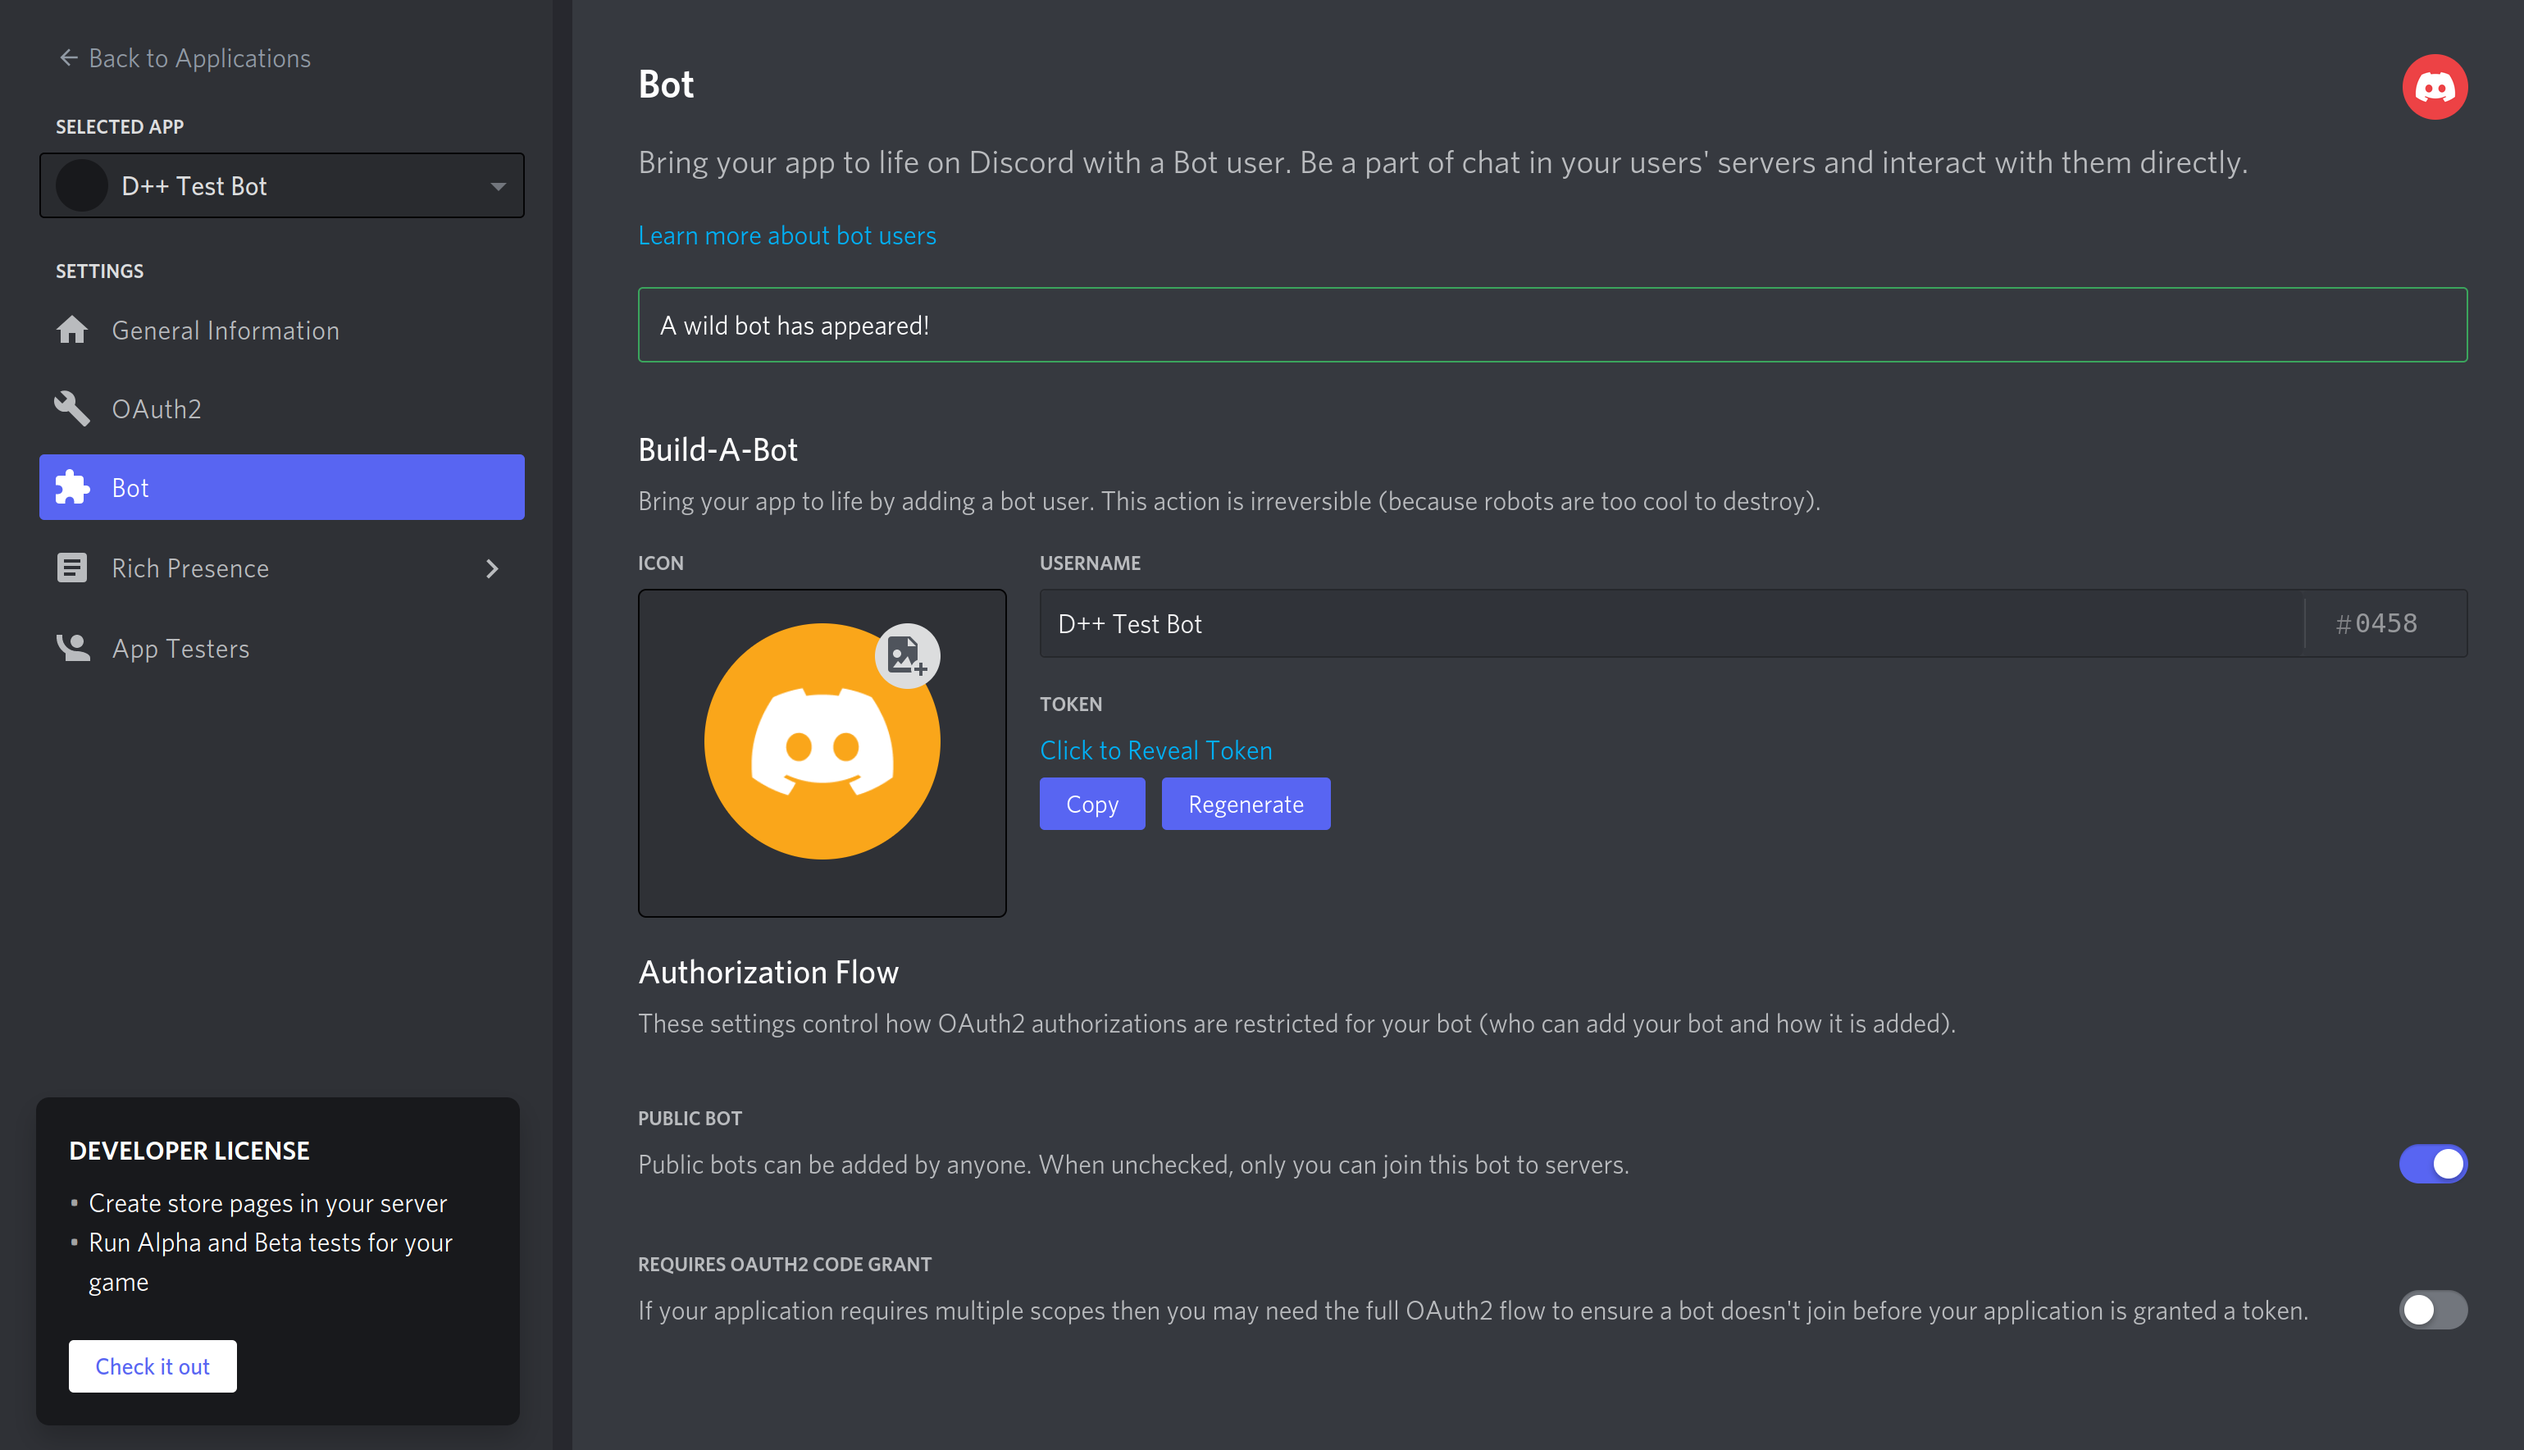
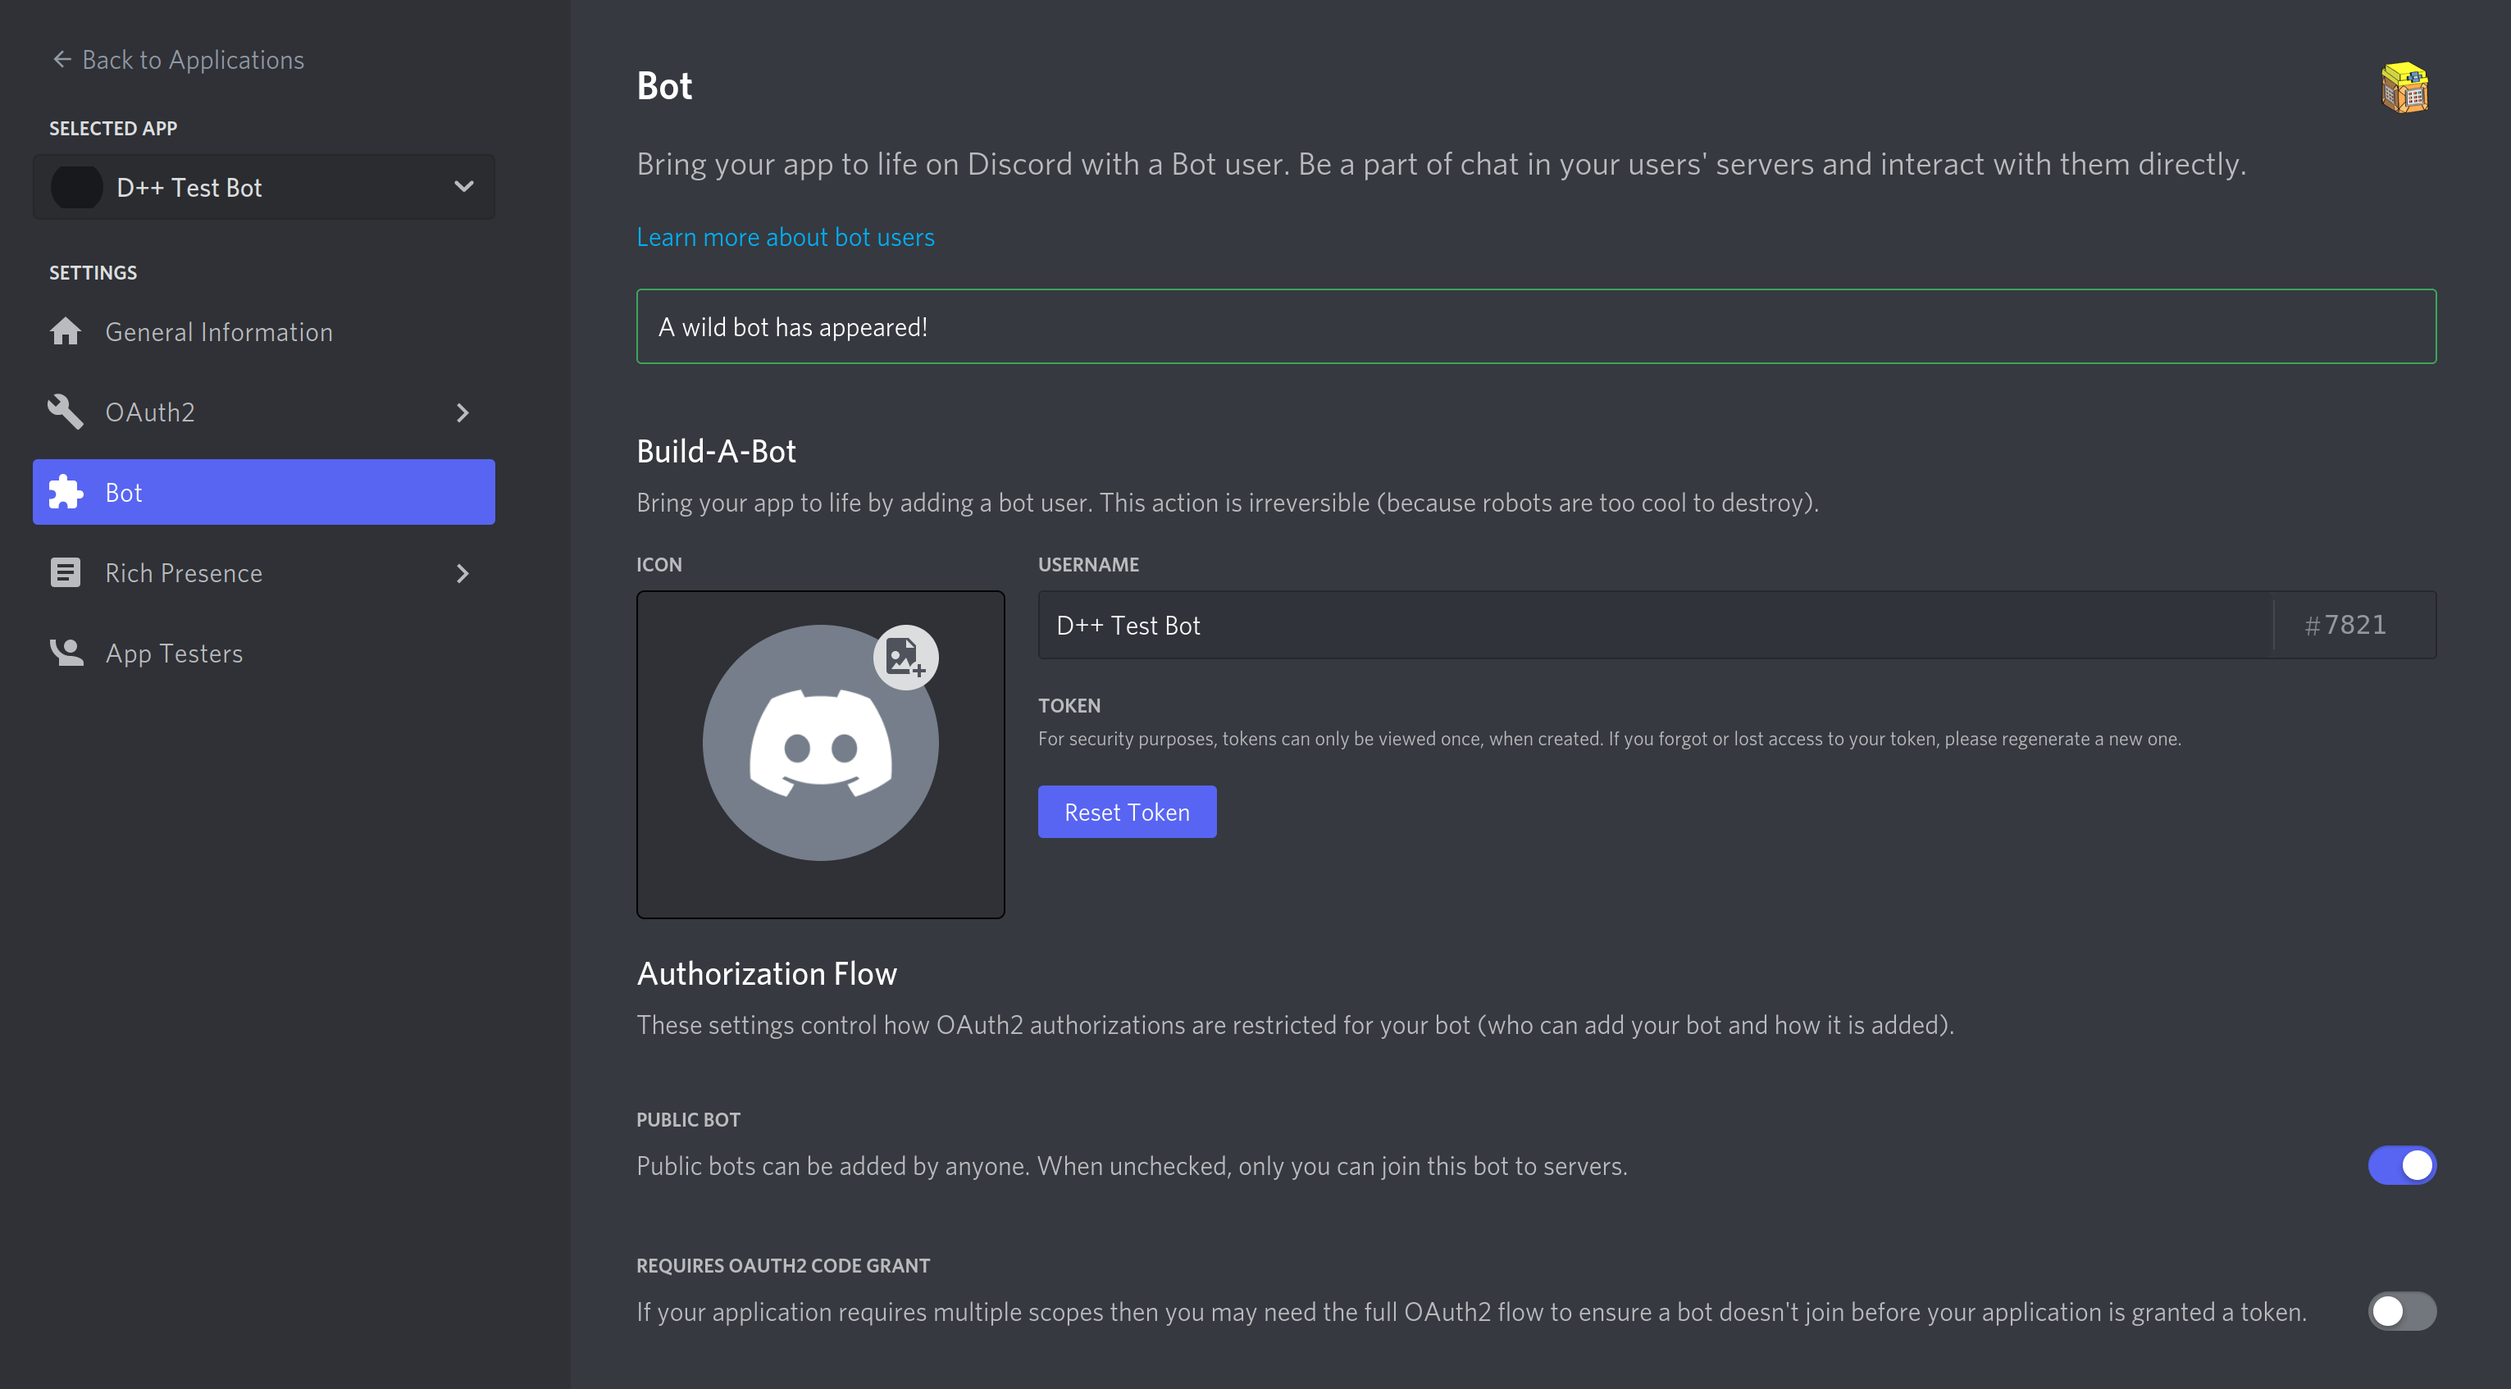
added guild_member_timeout and updated docs

diff --git a/include/dpp/cluster.h b/include/dpp/cluster.h
@@ -2231,7 +2231,7 @@ public:
 	/**
 	 * @brief Edit the properties of an existing guild member
 	 * 
-	 * Modify attributes of a guild member. Returns the guild_member. Fires a `Guild Member Update Gateway` event.
+	 * Modify attributes of a guild member. Returns the guild_member. Fires a `Guild Member Update` Gateway event.
 	 * If the `channel_id` is set to 0, this will force the target user to be disconnected from voice.
 	 * To remove a timeout, set the `communication_disabled_until` to a non-zero time in the past, e.g. 1.
 	 * When moving members to channels, the API user must have permissions to both connect to the channel and have the `MOVE_MEMBERS` permission.
@@ -2245,6 +2245,10 @@ public:
 
 	/**
 	 * @brief Moves the guild member to a other voice channel, if member is connected to one
+	 *
+	 * Fires a `Guild Member Update` Gateway event.
+	 * @note When moving members to channels, the API user __must__ have permissions to both connect to the channel and have the `MOVE_MEMBERS` permission.
+	 * @note This method supports audit log reasons set by the cluster::set_audit_reason() method.
 	 * @see https://discord.com/developers/docs/resources/guild#modify-guild-member
 	 * @param channel_id Id of the channel to which the user is used
 	 * @param guild_id Guild id to which the user is connected
@@ -2274,7 +2278,7 @@ public:
 	 * @brief Add role to guild member
 	 * 
 	 * Adds a role to a guild member. Requires the `MANAGE_ROLES` permission.
-	 * Fires a Guild Member Update Gateway event.
+	 * Fires a `Guild Member Update` Gateway event.
 	 * @see https://discord.com/developers/docs/resources/guild#add-guild-member-role
 	 * @note This method supports audit log reasons set by the cluster::set_audit_reason() method.
 	 * @param guild_id Guild ID to add a role to
@@ -2328,6 +2332,20 @@ public:
 	 * On success the callback will contain a dpp::confirmation object in confirmation_callback_t::value. On failure, the value is undefined and confirmation_callback_t::is_error() method will return true. You can obtain full error details with confirmation_callback_t::get_error().
 	 */
 	void guild_member_kick(snowflake guild_id, snowflake user_id, const std::string& reason = "", command_completion_event_t callback = utility::log_error());
+
+	/**
+	 * @brief Set the timeout of a guild member
+	 *
+	 * Fires a `Guild Member Update` Gateway event.
+	 * @see https://discord.com/developers/docs/resources/guild#modify-guild-member
+	 * @note This method supports audit log reasons set by the cluster::set_audit_reason() method.
+	 * @param guild_id Guild ID to timeout the member in
+	 * @param user_id User ID to set the timeout for
+	 * @param communication_disabled_until The timestamp when the user's timeout will expire (up to 28 days in the future). Set to 0 to remove the timeout
+	 * @param callback Function to call when the API call completes.
+	 * On success the callback will contain a dpp::confirmation object in confirmation_callback_t::value. On failure, the value is undefined and confirmation_callback_t::is_error() method will return true. You can obtain full error details with confirmation_callback_t::get_error().
+	 */
+	void guild_member_timeout(snowflake guild_id, snowflake user_id, time_t communication_disabled_until, command_completion_event_t callback = utility::log_error());
 
 	/**
 	 * @brief Add guild ban

diff --git a/src/dpp/cluster/guild_member.cpp b/src/dpp/cluster/guild_member.cpp
@@ -83,6 +83,18 @@ void cluster::guild_member_kick(snowflake guild_id, snowflake user_id, const std
 }
 
 
+void cluster::guild_member_timeout(snowflake guild_id, snowflake user_id, time_t communication_disabled_until, command_completion_event_t callback) {
+	json j;
+	if (communication_disabled_until > 0) {
+		j["communication_disabled_until"] = ts_to_string(communication_disabled_until);
+	} else {
+		j["communication_disabled_until"] = json::value_t::null;
+	}
+
+	rest_request<confirmation>(this, API_PATH "/guilds", std::to_string(guild_id), "members/" + std::to_string(user_id), m_patch, j.dump(), callback);
+}
+
+
 void cluster::guild_member_delete_role(snowflake guild_id, snowflake user_id, snowflake role_id, command_completion_event_t callback) {
 	rest_request<confirmation>(this, API_PATH "/guilds", std::to_string(guild_id), "members/" + std::to_string(user_id) + "/roles/" + std::to_string(role_id), m_delete, "", callback);
 }

diff --git a/docpages/02_building_a_bot.md b/docpages/02_building_a_bot.md
@@ -267,7 +267,7 @@ On the resulting screen, you’ll note a page with information regarding your ne
 
 \image html create_application_bot_overview.png
 
-In this panel, you can get your bot token. A bot token looks like this: `OTAyOTMxODU1NTU1MzE3ODUw.YXlm0g.9oYCt-XHXVH_z9qAytzmVRzKWTg`
+In this panel, you can get your bot token by clicking "Reset Token". A bot token looks like this: `OTAyOTMxODU1NTU1MzE3ODUw.YXlm0g.9oYCt-XHXVH_z9qAytzmVRzKWTg`
 
 \warning **Do not share this token** with anybody! If you ever somehow compromise your current bot token or see your bot in danger, you can regenerate the token in the panel.
 
@@ -294,6 +294,10 @@ You can read more about scopes and which you need for your application [here](ht
 \note For bots with elevated permissions, Discord enforces two-factor authentication on the bot owner's account when added to servers that have server-wide 2FA enabled.
 
 5. Copy and paste the resulting URL in your browser. Choose a server to invite the bot to, and click "Authorize".
+
+## Troubleshooting
+
+- Stuck? You can find us on the [official discord server](https://discord.gg/dpp) - ask away! We don't bite!
 
 \page building-a-cpp-discord-bot-in-repl Creating a Discord bot in Repl.it
 
